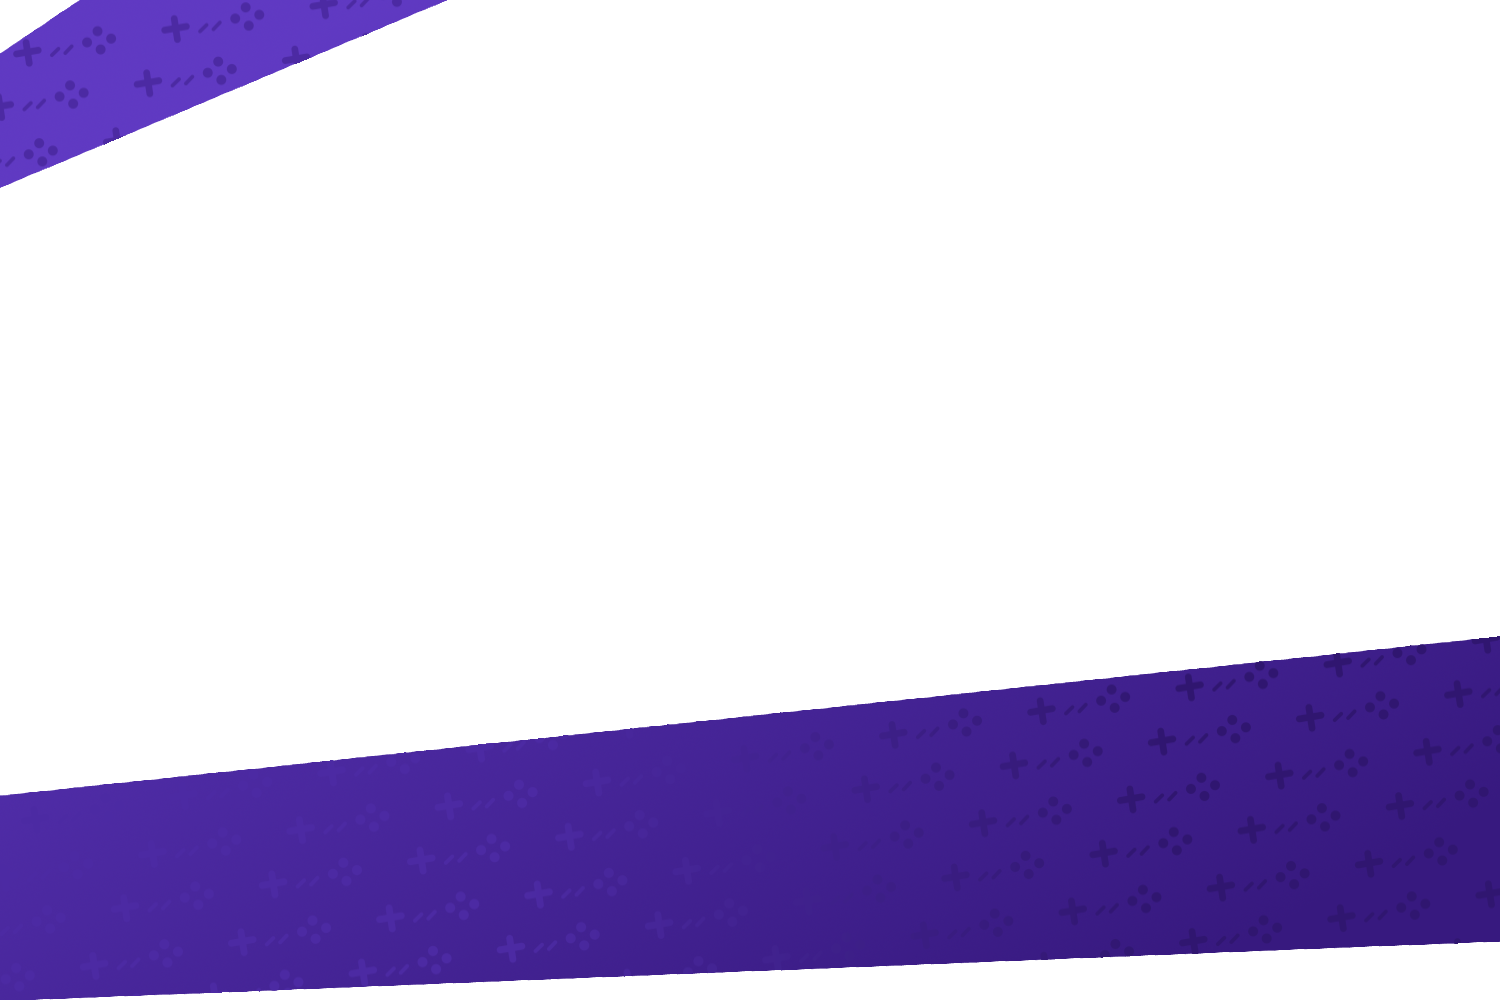
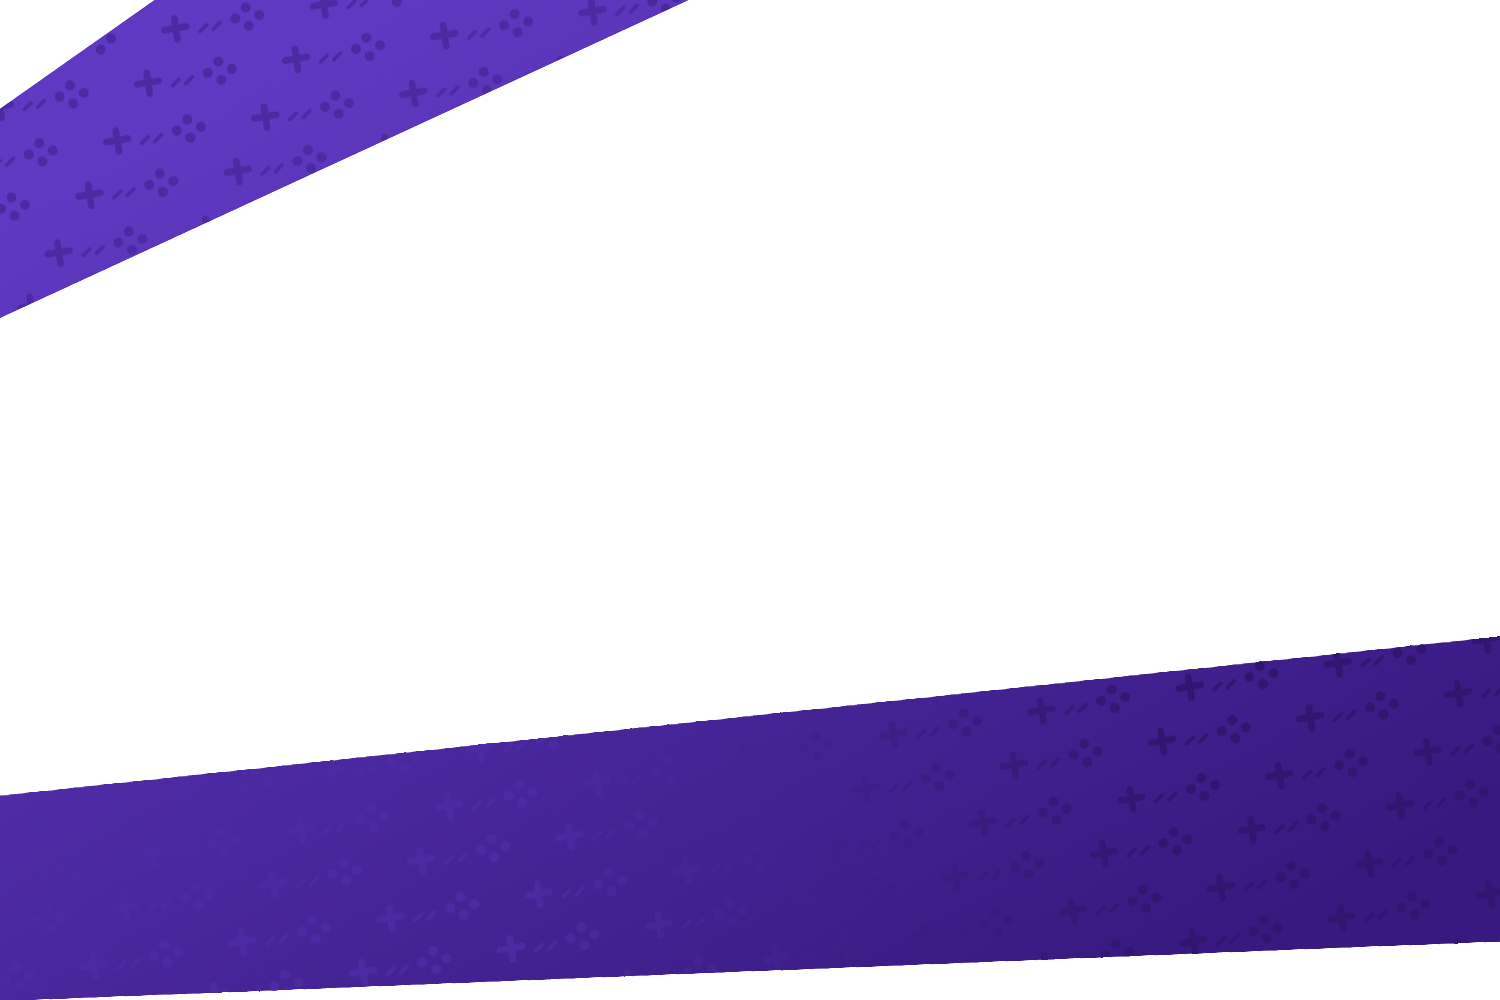
money

Changed region(s): [[0.0, 0.0, 0.46, 0.31], [0.0, 0.0, 0.092, 0.124]]

diff --git a/src/views/RunnerView.vue b/src/views/RunnerView.vue
@@ -6,10 +6,10 @@ import CanvasItem from '../components/CanvasItem.vue'
 import RunnerItem from '../components/RunnerItem.vue'
 import { useRoute } from 'vue-router'
 
-import imageBannerData from '../assets/banner.png'
+import imageBannerData from '../assets/banner_runner.png'
 import imageGradientData from '../assets/gradient.png'
-import imageLogoGSPSData from '../assets/logo_gsps/dzieciom2024.png'
-import imageLogoFoundationData from '../assets/logo_fundacja/na_ratunek.png'
+// import imageLogoGSPSData from '../assets/logo_gsps/dzieciom2024.png'
+// import imageLogoFoundationData from '../assets/logo_fundacja/na_ratunek.png'
 
 const route = useRoute()
 const canvasWidth = ref(1500)
@@ -39,11 +39,13 @@ const runner = ref('')
 const title = ref('')
 const subtitle = ref('')
 const category = ref('')
+const money = ref(0)
 
 const initialRunner = ref('')
 const initialTitle = ref('')
 const initialSubtitle = ref('')
 const initialCategory = ref('')
+const initialMoney = ref(0)
 
 var imageBanner = new Image()
 imageBanner.onload = () => redrawThumbnail()
@@ -53,13 +55,13 @@ var imageGradient = new Image()
 imageGradient.onload = () => redrawThumbnail()
 imageGradient.src = imageGradientData
 
-var imageLogoGSPS = new Image()
-imageLogoGSPS.onload = () => redrawThumbnail()
-imageLogoGSPS.src = imageLogoGSPSData
+// var imageLogoGSPS = new Image()
+// imageLogoGSPS.onload = () => redrawThumbnail()
+// imageLogoGSPS.src = imageLogoGSPSData
 
-var imageLogoFoundation = new Image()
-imageLogoFoundation.onload = () => redrawThumbnail()
-imageLogoFoundation.src = imageLogoFoundationData
+// var imageLogoFoundation = new Image()
+// imageLogoFoundation.onload = () => redrawThumbnail()
+// imageLogoFoundation.src = imageLogoFoundationData
 
 function redrawThumbnail() {
   // TODO: add a check to see if the canvas is already loaded
@@ -129,9 +131,28 @@ function redrawThumbnail() {
   ctx.strokeText(category.value, canvasWidth.value / 2, 887 + 42, canvasWidth.value)
   ctx.fillText(category.value, canvasWidth.value / 2, 887 + 42, canvasWidth.value)
 
-  ctx.drawImage(imageLogoGSPS, 16, 17)
+  // ctx.drawImage(imageLogoGSPS, 16, 17)
 
-  ctx.drawImage(imageLogoFoundation, 16, 734 - 17)
+  // ctx.drawImage(imageLogoFoundation, 16, 734 - 17)
+
+  if (money.value > 0) {
+    // we collected 24 bold
+    ctx.textAlign = 'left'
+    let weCollected = 'aktualnie zebraliśmy'
+    ctx.lineWidth = 5
+    ctx.font = 'normal normal 600 24px Saira Condensed'
+    ctx.strokeText(weCollected, 87, 187 + 24 + 4, canvasWidth.value)
+    ctx.fillText(weCollected, 87, 187 + 24 + 4, canvasWidth.value)
+
+    let moneyText = money.value.toLocaleString('pl-PL') + ' PLN'
+    // money 42 ultra bold
+    ctx.lineWidth = 5
+    ctx.font = 'normal normal 800 77px Saira Condensed'
+    ctx.textAlign = 'center'
+    ctx.fillStyle = '#ffbd16'
+    ctx.strokeText(moneyText, (368 - 16) / 2, 200 + 77 + 10, canvasWidth.value)
+    ctx.fillText(moneyText, (368 - 16) / 2, 200 + 77 + 10, canvasWidth.value)
+  }
 }
 
 function getFullTitle(): string {
@@ -199,6 +220,10 @@ if (route.query.category && typeof route.query.category === 'string') {
   initialCategory.value = route.query.category
 }
 
+if (route.query.money && typeof route.query.money === 'string') {
+  initialMoney.value = Number(route.query.money)
+}
+
 onMounted(() => {
   redrawThumbnail()
 })
@@ -233,10 +258,13 @@ onMounted(() => {
       @updateTitle="(t) => (title = t)"
       @updateSubtitle="(s) => (subtitle = s)"
       @updateCategory="(c) => (category = c)"
+      @updateMoney="(m) => (money = m)"
       :runner="initialRunner"
       :title="initialTitle"
       :subtitle="initialSubtitle"
       :category="initialCategory"
+      :money="initialMoney"
+      initialMoney
     />
   </div>
 </template>

diff --git a/src/components/RunnerItem.vue b/src/components/RunnerItem.vue
@@ -7,12 +7,14 @@ const inputRunner = ref('')
 const inputTitle = ref('')
 const inputSubtitle = ref('')
 const inputCategory = ref('')
+const inputMoney = ref(0)
 
 const props = defineProps<{
   runner: string
   title: string
   subtitle: string
   category: string
+  money: number
 }>()
 
 const emit = defineEmits<{
@@ -21,6 +23,7 @@ const emit = defineEmits<{
   updateTitle: [t: string]
   updateSubtitle: [s: string]
   updateCategory: [c: string]
+  updateMoney: [m: number]
 }>()
 
 if (props.runner) {
@@ -38,6 +41,10 @@ if (props.subtitle) {
 if (props.category) {
   inputCategory.value = props.category
   emit('updateCategory', props.category)
+}
+if (props.money) {
+  inputMoney.value = props.money
+  emit('updateMoney', props.money)
 }
 
 function onNewBackground() {
@@ -60,6 +67,9 @@ watch(inputSubtitle, () => {
 })
 watch(inputCategory, () => {
   emit('updateCategory', inputCategory.value.trim())
+})
+watch(inputMoney, () => {
+  emit('updateMoney', inputMoney.value)
 })
 </script>
 
@@ -118,6 +128,18 @@ watch(inputCategory, () => {
         placeholder="Kategoria"
         required
       />
+    </div>
+    <div>
+      <label for="money">Uzbierano:</label>
+      <input
+        v-model="inputCategory"
+        type="number"
+        name="money"
+        id="money"
+        placeholder="0"
+        required
+      />
+      <!-- TODO update from the internet -->
     </div>
   </div>
 </template>

diff --git a/index.html b/index.html
@@ -11,7 +11,7 @@
       rel="stylesheet"
     />
     <link
-      href="https://fonts.googleapis.com/css2?family=Saira+Condensed:wght@600;800&display=swap"
+      href="https://fonts.googleapis.com/css2?family=Saira+Condensed:wght@600;700;800&display=swap"
       rel="stylesheet"
     />
     <link
